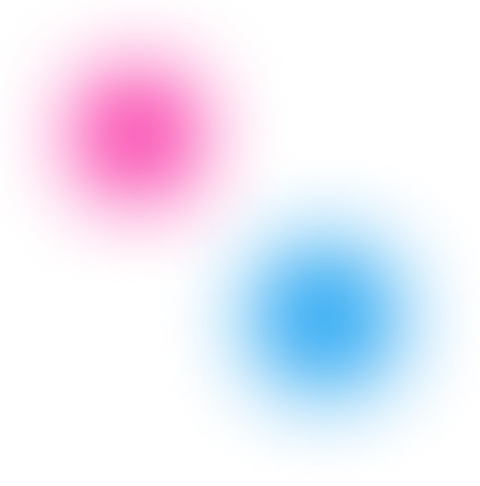
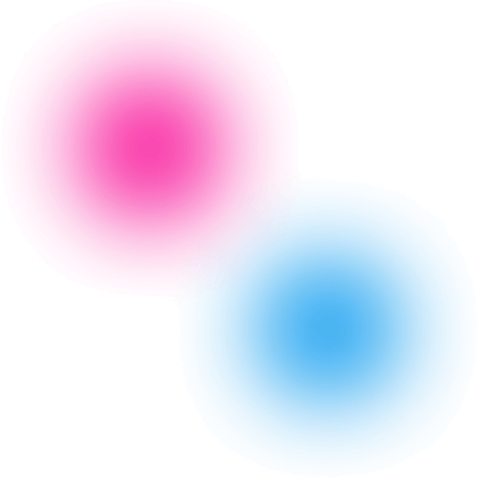
animation trying to fix

Changed region(s): [[0.1562, 0.1543, 0.5625, 0.5247]]

diff --git a/src/components/home/training.jsx b/src/components/home/training.jsx
@@ -3,9 +3,10 @@ import DashedLine from "../../assets/icons/DashedLine.svg";
 import Step1 from "../../assets/icons/Step1.svg";
 import Step2 from "../../assets/icons/Step2.svg";
 import Step3 from "../../assets/icons/Step3.svg";
-import LargeCheckicon from '../../assets/icons/LargeCheckIcon.svg'
-import SmCheckicon from '../../assets/icons/SmCheckIcon.svg'
+import LargeCheckicon from "../../assets/icons/LargeCheckIcon.svg";
+import SmCheckicon from "../../assets/icons/SmCheckIcon.svg";
 import { motion } from "framer-motion";
+import { } from "react";
 
 const Training = () => {
   return (
@@ -20,10 +21,10 @@ const Training = () => {
             {/* Dashed Line Animation */}
             <motion.div
               className="overflow-hidden  flex justify-center items-start h-full"
-              initial={{ height: 0 }} 
-              whileInView={{ height: '100%' }} 
-              viewport={{ once: true, amount: 0.5 }} 
-              transition={{ duration: 2 }} 
+              initial={{ height: 0 }}
+              whileInView={{ height: "100%" }}
+              viewport={{ once: true, amount: 0.5 }}
+              transition={{ duration: 2 }}
             >
               <DashedLine />
             </motion.div>
@@ -62,18 +63,21 @@ const Training = () => {
           </motion.div>
         </div>
 
+     
         <div className="pb-[151px] items-center space-y-[42px] md:space-y-[60px]">
           {Training_steps.map((item, i) => (
             <motion.div
-              className="flex flex-col justify-center items-center gap-[13px] md:gap-5"
+              className="flex flex-col justify-center items-center gap-[13px] md:gap-5 text-animation"
               key={i}
-              initial={{ scale: 0.8, x: 100, y: 100, opacity: 0 }}
-              whileInView={{ scale: 1, x: 0, y: 0, opacity: 1 }}
-              viewport={{ once: true, amount: 0.2 }}
-              transition={{ duration: 0.4, delay: i * 0.2 }}
-              style={{ willChange: "transform, opacity" }} // Optimized for performance
+              viewport={{ once: true, amount: 0.2 }} // Key for each step
+              initial={{scale: 0.8, x: 100, y: 100, opacity: 0 }}
+              whileInView={{ scale: 1, x: 0, y: 0, opacity: 1}}
+              transition={{
+                duration: 0.5,
+                delay: i * 0.2,
+                ease: "easeInOut",
+              }}
             >
-              {/* Header */}
               <div
                 style={{
                   background: `linear-gradient(to right, ${item.header.bg_gradient.color1}, ${item.header.bg_gradient.color2})`,
@@ -89,7 +93,6 @@ const Training = () => {
                 </p>
               </div>
 
-              {/* Description */}
               <div
                 className="p-[2px] rounded-[11px] md:rounded-[20px] w-full md:w-[557px] overflow-hidden"
                 style={{
@@ -105,10 +108,10 @@ const Training = () => {
                   {item.desc.steps.map((step, i) => (
                     <div className="flex gap-x-3 items-center" key={i}>
                       <div className="md:block hidden">
-                       <LargeCheckicon/>
+                        <LargeCheckicon />
                       </div>
                       <div className="block md:hidden">
-                       <SmCheckicon/>
+                        <SmCheckicon />
                       </div>
                       <div
                         className="text-[11px] md:text-[20px] font-bold"

diff --git a/src/App.jsx b/src/App.jsx
@@ -1,4 +1,4 @@
-import { motion } from "framer-motion";
+// import { motion } from "framer-motion";
 import About from "./components/home/about";
 import Expertise from "./components/home/expertise";
 import Hero from "./components/home/hero";
@@ -26,35 +26,43 @@ function App() {
         <About />
         <Footer />
       </div>
-      <div
+      {/* <div
         className="fixed w-[380px] md:w-[1400px] mx-auto h-[600px] md:h-[1000px] z-10 inset-0 flex items-center justify-center   opacity-25"
       >
         
        <motion.div
        className="md:block hidden"
       
-        animate={{ rotate: 360 }}  // Rotate 360 degrees
+        animate={{ rotate: 360 }}  
         transition={{
-          repeat: Infinity,       // Repeat the animation infinitely
-          ease: "linear",         // Use a linear easing function for constant speed
-          duration: 18,           // Set the duration of one full rotation
+          repeat: Infinity,    
+          ease: "linear",         
+          duration: 18,         
         }}>
        <img src={MergedGlows} className="w-[1402px]" alt="" />
        </motion.div>
        <motion.div
        className="md:hidden block"
       
-        animate={{ rotate: 360 }}  // Rotate 360 degrees
+        animate={{ rotate: 360 }}  
         transition={{
-          repeat: Infinity,       // Repeat the animation infinitely
-          ease: "linear",         // Use a linear easing function for constant speed
-          duration: 15,           // Set the duration of one full rotation
+          repeat: Infinity,   
+          ease: "linear",     
+          duration: 15,        
         }}
         >
        <img src={MergedGlowsSM} className="w-[500px]" alt="" />
        </motion.div>
       </div>
-    
+     */}
+      <div className="fixed w-[380px] md:w-[1400px] mx-auto h-[600px] md:h-[1000px] z-10 inset-0 flex items-center justify-center opacity-25">
+        <div className="hidden md:block rotate-animation">
+          <img src={MergedGlows} className="w-[1402px]" alt="Rotating Glow" />
+        </div>
+        <div className="block md:hidden rotate-animation">
+          <img src={MergedGlowsSM} className="w-[500px]" alt="Rotating Glow" />
+        </div>
+      </div>
     </main>
   );
 }

diff --git a/src/index.css b/src/index.css
@@ -224,6 +224,37 @@ body {
 
 
 
+
+
+
+.rotate-animation {
+  animation: rotate360 18s linear infinite;
+}
+
+@keyframes rotate360 {
+  0% {
+    transform: rotate(0deg);
+  }
+  100% {
+    transform: rotate(360deg);
+  }
+}
+
+@media (max-width: 768px) {
+  .rotate-animation {
+    animation-duration: 15s; /* Adjust for mobile if needed */
+  }
+}
+
+
+
+
+
+
+
+
+
+
 /* Rainbox glowing border */
 .rainbow-border {
   position: relative;
